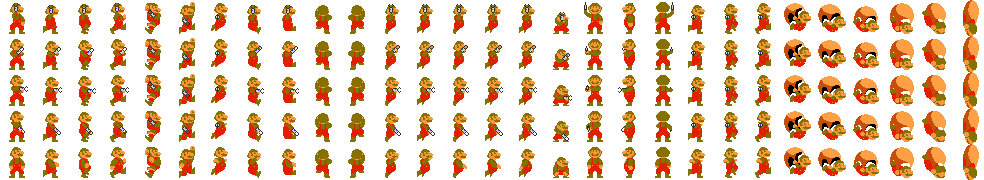
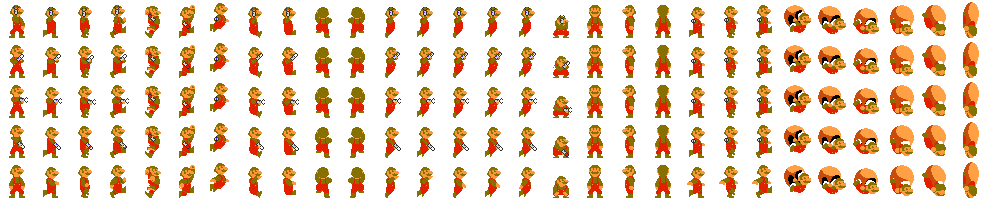
Update game files, Lua scripts and README

diff --git a/README.md b/README.md
@@ -202,6 +202,7 @@ All notable releases and updates to **Legendary Edition** are documented here.
 * Added a new "Generate Nitpicks File" button to the menu's misc tab.
 * Added animations for confirmations in editor, and a three-stage warning to confirm resetting all settings.
 * Added downscaling for viewports (may look funny when window scale is 3).
+* Luigi is no longer a basic recolour of Mario. He now has his own unique sprites.
 
 ### 🐛 Bug Fixes
 
